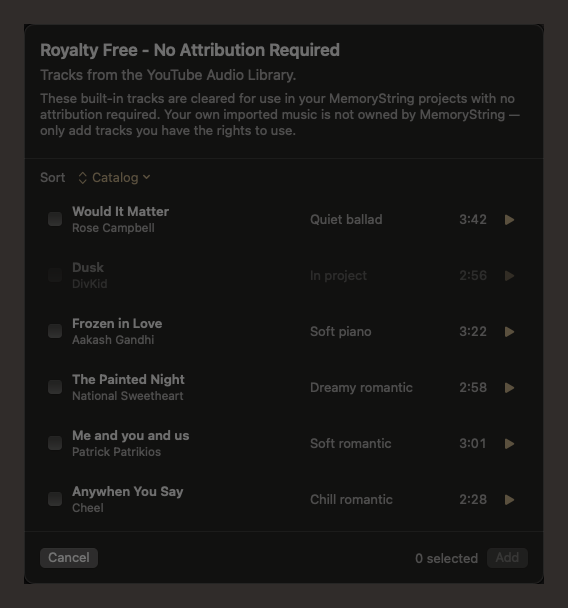
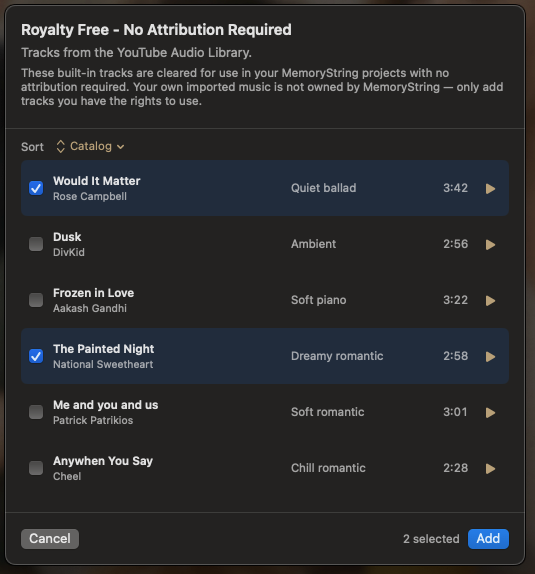
Replace the royalty-free library snapshot and add the Sort menu screenshot.

diff --git a/music.md b/music.md
@@ -27,6 +27,8 @@ The sheet title is **Royalty Free - No Attribution Required**. Subtitle: *Tracks
 
 **Sort:** Catalog · Title (A–Z) · Genre (A–Z) · Duration (shortest / longest first).
 
+![Sort the royalty-free catalog by Catalog order, Title, Genre, or Duration](../.gitbook/assets/royalty-free-library-sort.png)
+
 Each row: checkbox, **title** / **artist**, **style** (e.g. Quiet ballad) or **In project** if it is already on the playlist, duration, and a play button to audition (does not move the show playhead). Check tracks, then **Add**. **Cancel** dismisses. **Add** stays disabled until at least one unused track is selected.
 
 ## Match Look Soundtrack
